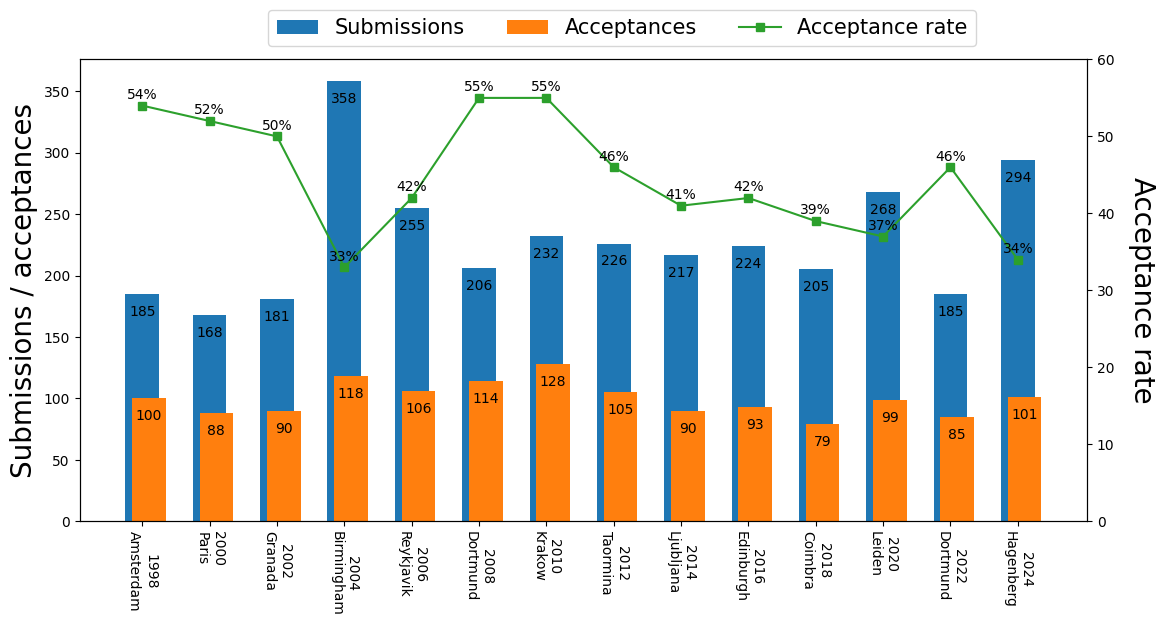
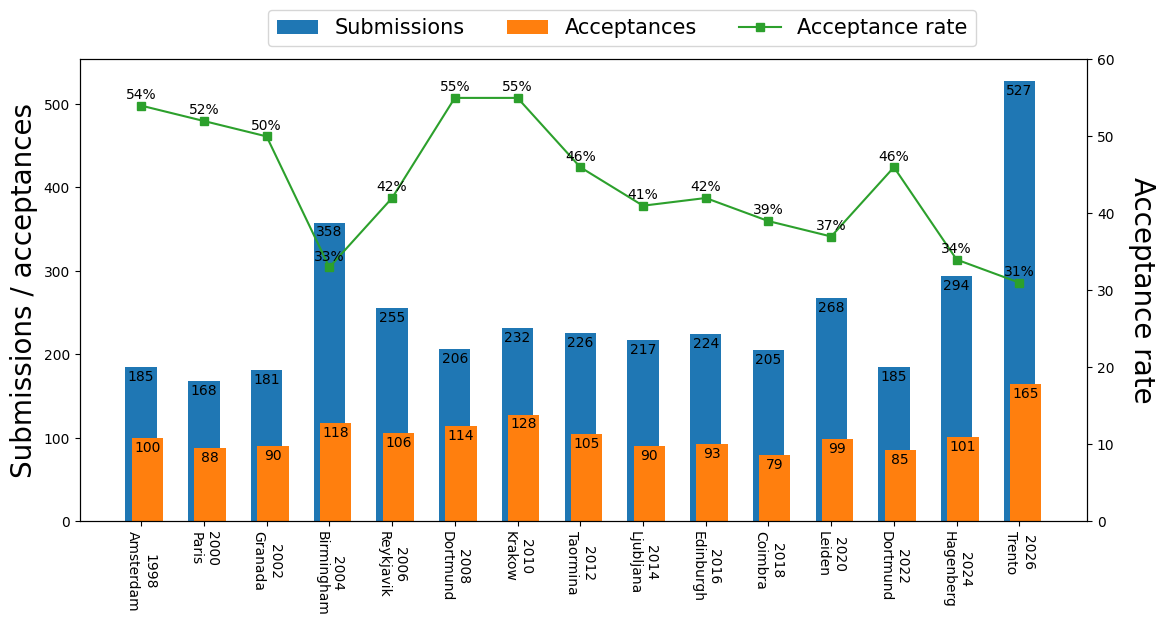
update stats of ppsn

diff --git a/index.md b/index.md
@@ -150,6 +150,7 @@ PPSN is held in even years.
 | 2020 | 268        | 99         | 37%             | Leiden     | 
 | 2022 | 185        | 85         | 46%             | Dortmund     | 
 | 2024 | 294        | 101         | 34%             | Hagenberg     | 
+| 2026 | 527        | 165         | 31%             | Trento     | 
 
 [![PPSN](fig/stats_ppsn.png)](fig/stats_ppsn.png)
 
